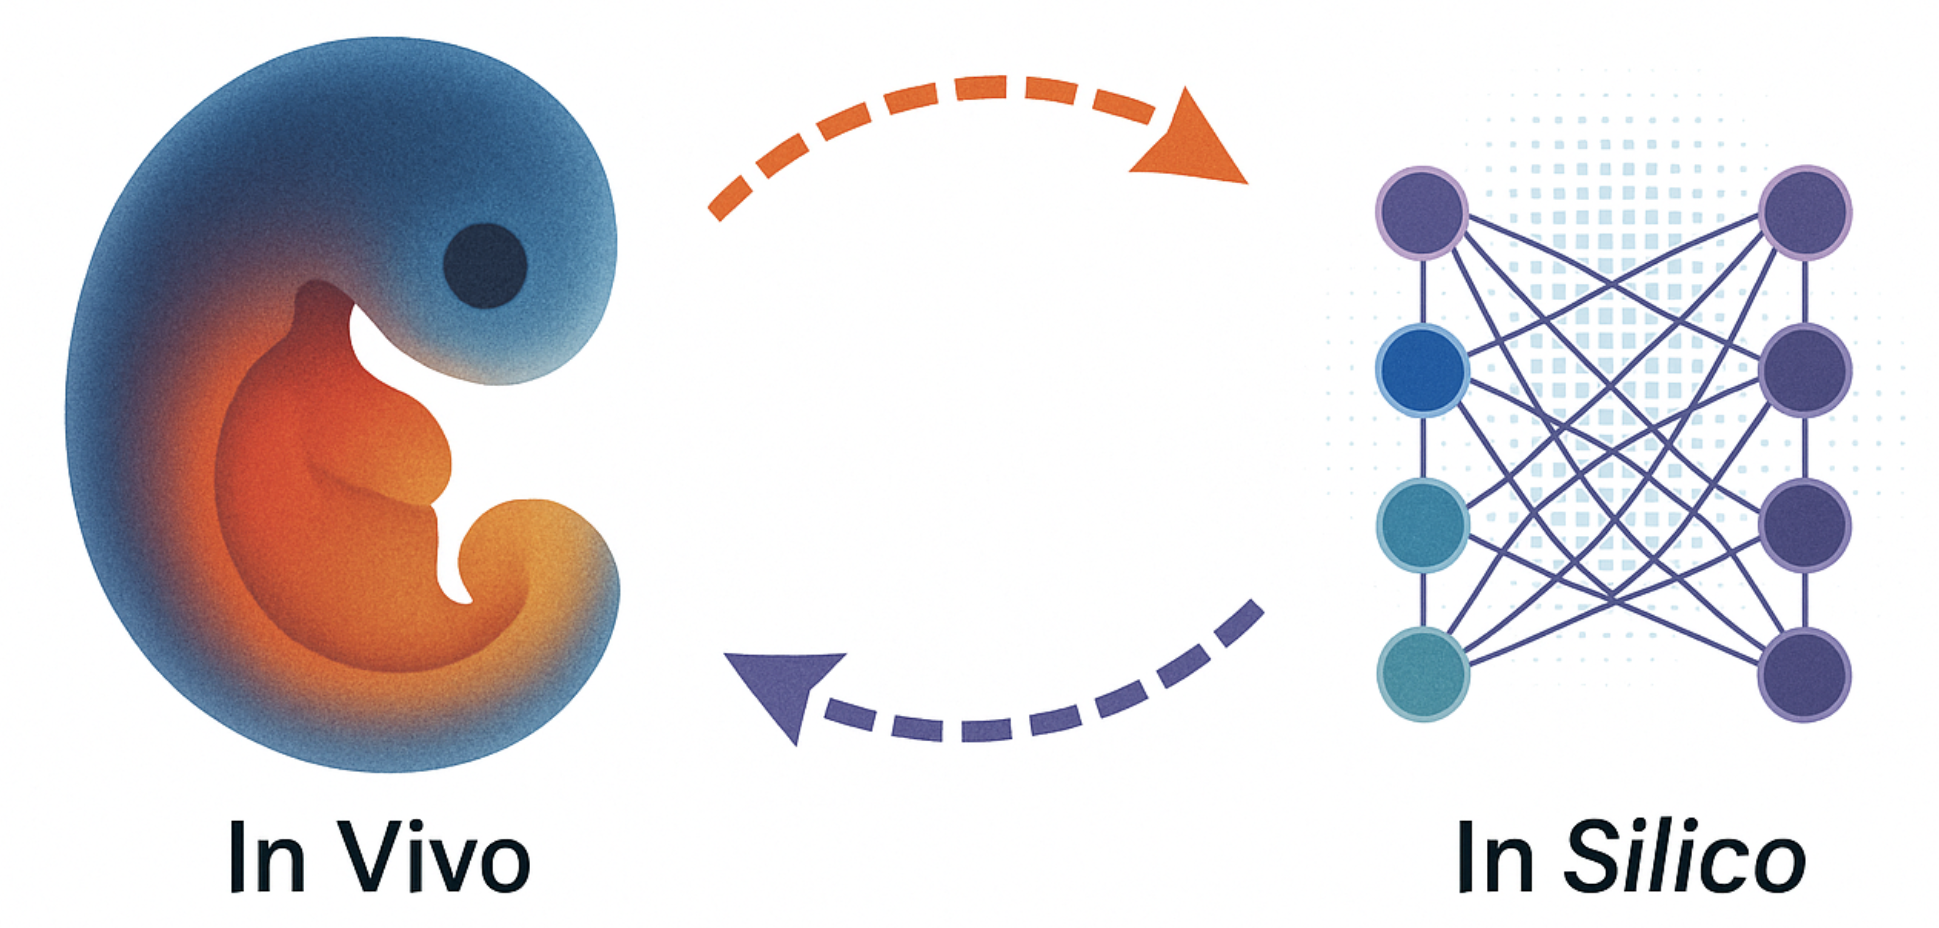
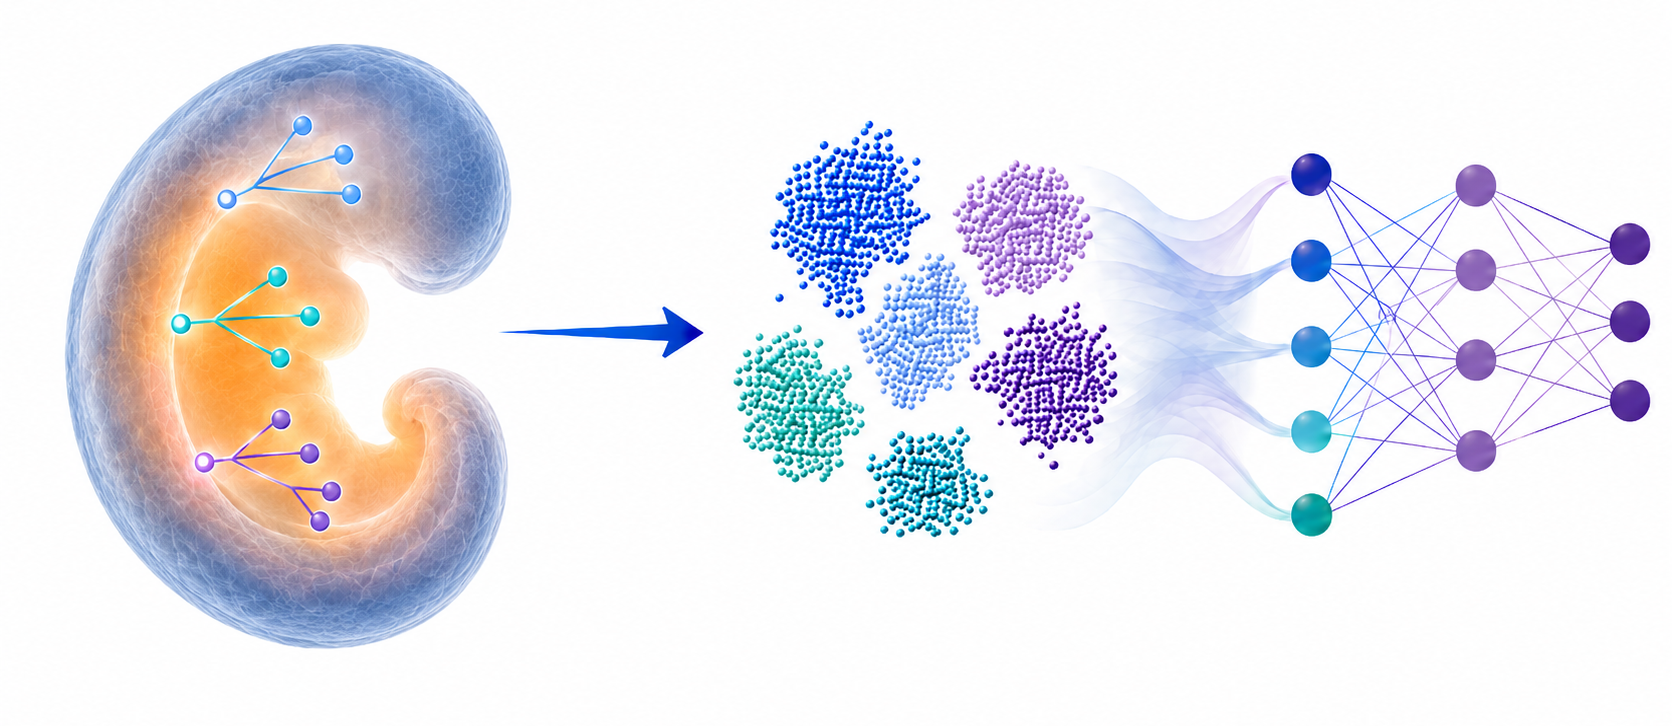
0513

diff --git a/_pages/about.md b/_pages/about.md
@@ -17,13 +17,9 @@ redirect_from:
 
 <span class='anchor' id='about-me'></span>
 
-I am a Ph.D Candidate in Biology (Computional Biology) at the School of Life Sciences, Westlake University, advised by [Prof Weike Pei](https://www.westlake.edu.cn/faculty/weike-pei.html) & [Prof Yanxiao Zhang](https://www.westlake.edu.cn/faculty/yanxiao-zhang.html). My research focuses on decoding cell fate decision processes by integrating single-cell and spatial genomics with machine learning. Before joining Westlake, I developed algorithms for single-cell multi-omics data analysis and network inference at [Jie Wang's lab](https://jiewanglab.github.io/us/news.html) in GIBH-CAS.
+I am a Computational Biologist at Westlake University. I leverage machine learning and single-cell/spatial genomics to decode cell fate decisions. With a background in algorithm development for multi-omics and network inference, I am dedicated to building computational frameworks for modern biology.
 
 I am also an amateur bodybuilder with 140KG maximal weight for bench press, 190KG maximal weight for Deadlift, and 170KG maximal weight for Squat.
-
-# 🔈 Seeking Postdoc Opportunities
-
-- I am actively seeking a postdoctoral position in **computational single-cell and spatial genomics** outside mainland China. I would greatly appreciate it if you could share any relevant opportunities (Please email me at jiangjunyao@westlake.edu.cn).
 
 
 # 🔥 Summary of Main Research Topic
